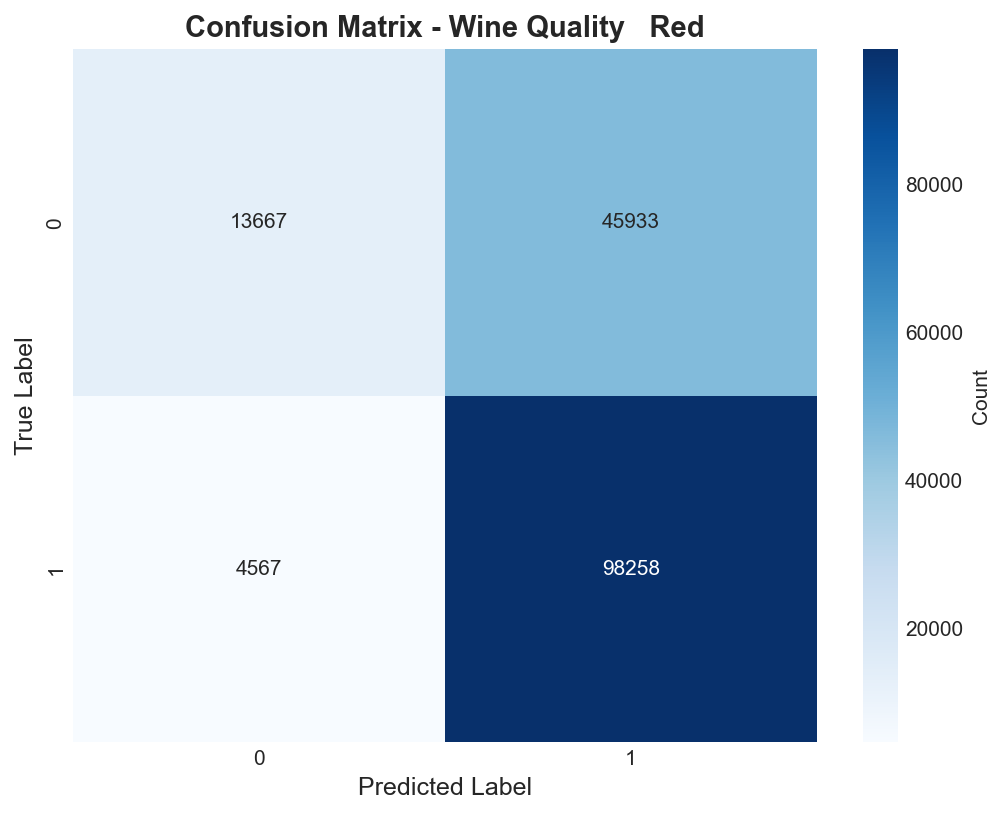
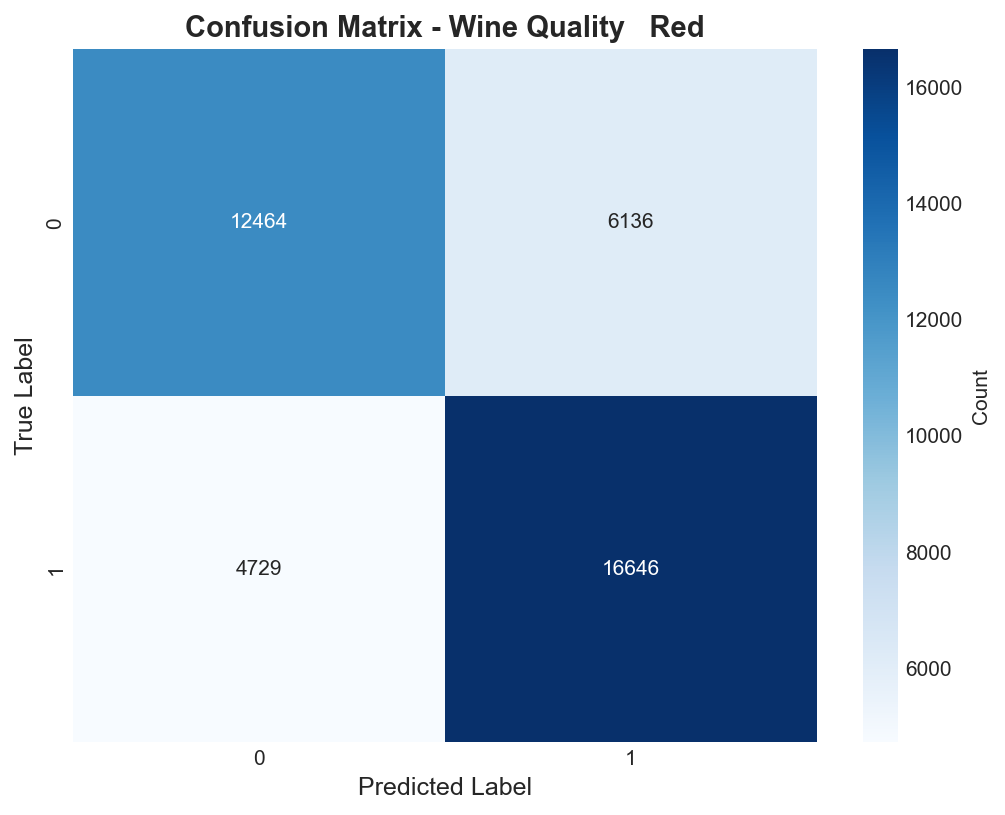
small fixes

diff --git a/src/core/utils/DataLoader.py b/src/core/utils/DataLoader.py
@@ -1,6 +1,7 @@
 from sklearn.preprocessing import KBinsDiscretizer, OrdinalEncoder, LabelEncoder, OneHotEncoder
 from sklearn.datasets import load_breast_cancer
 import openml
+import numpy as np
 
 
 class DataLoader:
@@ -9,6 +10,15 @@ class DataLoader:
         data = load_breast_cancer()
         X = data.data
         y = data.target
+
+        print(f"DEBUG - Dataset name: Wisconsin Breast Cancer")
+        print(f"DEBUG - Dataset description: {data.DESCR[:300] if data.DESCR else 'No description'}")
+        print(f"DEBUG - Number of instances: {X.shape[0]}")
+        print(f"DEBUG - Number of features: {X.shape[1]}")
+        print(f"DEBUG - Columns: {list(data.feature_names)}")
+        unique, counts = np.unique(y, return_counts=True)
+        class_names = dict(zip(data.target_names, range(len(data.target_names))))
+        print(f"DEBUG - Class distribution: {', '.join([f'{data.target_names[k]} ({k}): {v}' for k, v in zip(unique, counts)])}")
 
         est = KBinsDiscretizer(n_bins=n_bins, encode='ordinal', strategy='quantile')
         X_id3 = est.fit_transform(X).astype(int)
@@ -20,9 +30,14 @@ class DataLoader:
     @staticmethod
     def load_wine_quality_red_data(n_bins=5):
         try:
-            dataset = openml.datasets.get_dataset(287, download_data=True)
+            dataset = openml.datasets.get_dataset(40691, download_data=True)
             df, _, _, _ = dataset.get_data(dataset_format='dataframe')
             print("Wine Quality Red dataset downloaded from OpenML.")
+            print(f"DEBUG - Dataset name: {dataset.name}")
+            print(f"DEBUG - Dataset description: {dataset.description[:300] if dataset.description else 'No description'}")
+            print(f"DEBUG - Number of instances: {df.shape[0]}")
+            print(f"DEBUG - Number of features: {df.shape[1]}")
+            print(f"DEBUG - Columns: {list(df.columns)}")
         except Exception as e:
             raise RuntimeError(f"Failed to download Wine Quality Red dataset: {e}")
 
@@ -37,6 +52,7 @@ class DataLoader:
             X = df.iloc[:, :-1].values
 
         y = (y_raw.astype(float) > 5).astype(int)
+        print(f"DEBUG - Class distribution: Low quality (0): {(y == 0).sum()}, Good quality (1): {(y == 1).sum()}")
 
         est = KBinsDiscretizer(n_bins=n_bins, encode='ordinal', strategy='quantile')
         X_id3 = est.fit_transform(X).astype(int)
@@ -51,6 +67,11 @@ class DataLoader:
             dataset = openml.datasets.get_dataset(24, download_data=True)
             df = dataset.get_data(dataset_format='dataframe')[0]
             print("Mushroom dataset downloaded from OpenML.")
+            print(f"DEBUG - Dataset name: {dataset.name}")
+            print(f"DEBUG - Dataset description: {dataset.description[:300] if dataset.description else 'No description'}")
+            print(f"DEBUG - Number of instances: {df.shape[0]}")
+            print(f"DEBUG - Number of features: {df.shape[1]}")
+            print(f"DEBUG - Columns: {list(df.columns)}")
         except Exception as e:
             raise RuntimeError(f"Failed to download Mushroom dataset: {e}")
 
@@ -74,6 +95,10 @@ class DataLoader:
         le = LabelEncoder()
         y = le.fit_transform(y_raw)
 
+        unique, counts = np.unique(y, return_counts=True)
+        class_mapping = dict(zip(le.transform(le.classes_), le.classes_))
+        print(f"DEBUG - Class distribution: {', '.join([f'{class_mapping[k]} ({k}): {v}' for k, v in zip(unique, counts)])}")
+
         return X_id3, X_svm, y
 
     @staticmethod
@@ -82,6 +107,11 @@ class DataLoader:
             dataset = openml.datasets.get_dataset(21, download_data=True)
             df, _, _, _ = dataset.get_data(dataset_format='dataframe')
             print("Car Evaluation dataset downloaded from OpenML.")
+            print(f"DEBUG - Dataset name: {dataset.name}")
+            print(f"DEBUG - Dataset description: {dataset.description[:300] if dataset.description else 'No description'}")
+            print(f"DEBUG - Number of instances: {df.shape[0]}")
+            print(f"DEBUG - Number of features: {df.shape[1]}")
+            print(f"DEBUG - Columns: {list(df.columns)}")
         except Exception as e:
             raise RuntimeError(f"Failed to download Car dataset: {e}")
 
@@ -90,6 +120,19 @@ class DataLoader:
 
         X_id3 = OrdinalEncoder().fit_transform(X_raw).astype(int)
         X_svm = OneHotEncoder(handle_unknown='ignore', sparse_output=False).fit_transform(X_raw)
-        y = LabelEncoder().fit_transform(y_raw)
+        le = LabelEncoder()
+        y = le.fit_transform(y_raw)
+
+        unique, counts = np.unique(y, return_counts=True)
+        class_mapping = dict(zip(le.transform(le.classes_), le.classes_))
+        print(f"DEBUG - Class distribution: {', '.join([f'{class_mapping[k]} ({k}): {v}' for k, v in zip(unique, counts)])}")
 
         return X_id3, X_svm, y
+
+
+if __name__ == "__main__":
+    # wine quality red
+    X_id3, X_svm, y = DataLoader.load_mushroom_data()
+    X_id3, X_svm, y = DataLoader.load_breast_cancer_data()
+    X_id3, X_svm, y = DataLoader.load_wine_quality_red_data()
+    X_id3, X_svm, y = DataLoader.load_car_data()
